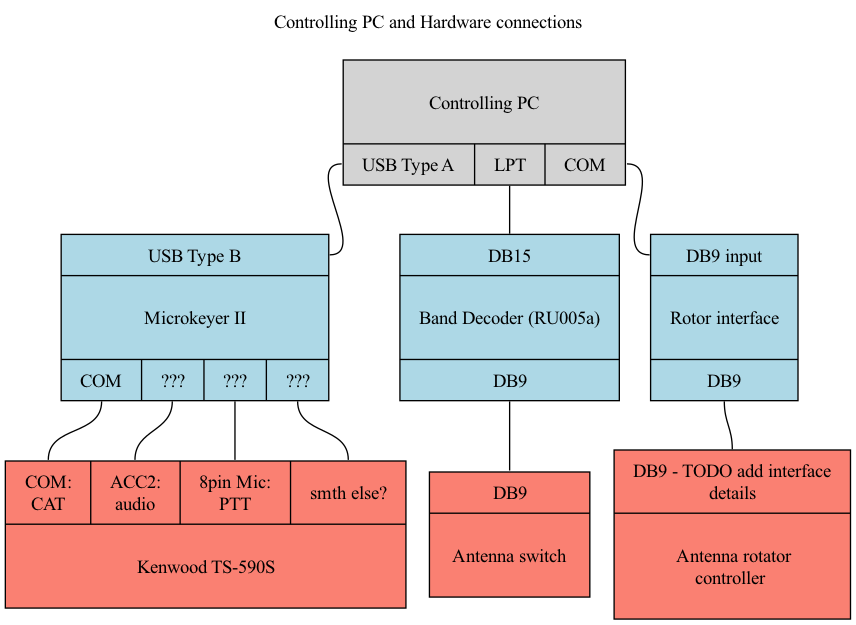
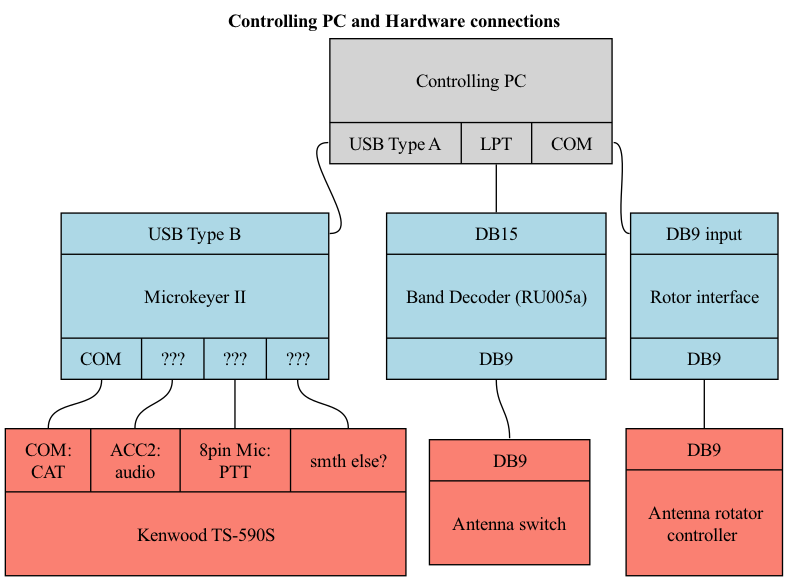
updated RK5D readme

Changed region(s): [[0.0, 0.0, 1.0, 1.0], [0.1523, 0.8969, 0.3655, 0.9278], [0.1523, 0.4948, 0.3046, 0.5258]]

diff --git a/rk5d-remote/README.md b/rk5d-remote/README.md
@@ -1,12 +1,69 @@
 # RK5D remote control configuration
 
-## 1. Software responsibilities
+## 0. Let me in
+1. Install [AnyDesk](https://anydesk.com)
+2. Ask me for setting up your access
+3. Please read this doc - just for the sake of an overview - and being aware of limitations and **your** responsibilities
+   
+## 1. Starting the station:
+1. Start the hardware: for now it's done by Dima manually (Controlling PC, 12V PS, G1000, Microham interface, RU005a band decoder)
+2. Connect to the controlling PC in AnyDesk
+3. Start the software (there are icons on the Desktop, adding paths just FYI):
+- **Microham USB Device Router** (*C:\Program Files (x86)\microHAM\bin\urouter.exe*)
+- **N1MM+ Logger** (*C:\Program Files (x86)\N1MM Logger+\N1MMLogger.net.exe*)
+- **N1MM Rotor** will be started with the logger automatically
+4. Start the transceiver by clicking the **ON** button in N1MM's bandmap window
+
+If everything is ok, you should
+- See the transceiver frequency in the bandmap window
+- See the current antenna position in the rotor window
+- Hear the band noise
+
+![bandmap](bandmap.png)
+
+![bandmap](rotor.png)
+
+Congrats You're ready! Please don't give up and read the next section carefully in order not to harm the station.
+
+## 2. Controlling the station
+So you're in and from now on you're controlling the station. Please do not forget that all the hardware depends on your actions.
+1. **USE TUNER**: Starting on a new band, please toggle the tuner - using the TUNE button. If the SWR is ok and you can work - you'll hear the "A" CW message. Otherwise you'll hear "SWR" - that means something is wrong.
+2. **ANTENNA SWITCHING**: Antennas are switched automatically when you change the band, however there are some important notes:
+    - Only 40m, 20m, 15m, 10m are now ready for use with full power (100w). 
+  Transmitting on 80m makes some RFIs in the shack - which cause the CAT control failure - right in the middle of the transmission, so the transceiver will end up in transmitting state and key down with full power. 
+  This can now be fixed only offline by turning off the transceiver and restarting the controlling PC, and if there's nobody around - it will cause transceiver extensive heating and PA damage. Transmitting QRP on 80m is ok.
+  The same happens if you transmit into an untunned 40m antenna.
+    - There is a problem with LPT port control - unsolved for now - there looks to be some port initialization delay or power saving in Windows.
+  See notes below if you face something similar: 
+      - Antennas are not switched with the band change (you can't hear the band noise)
+      - Antenna is switched - so that you hear the band noise for a few seconds - and then gets disconnected right away
+3. **ROTATOR**: Never let the antenna cross 0º direction (North). Otherwise the feeding cables might be broken, so please be very careful here.
+If you're say at 330º and want to rotate the antenna to 45º, first toggle rotation to 180º, then continue to 45º.
+The rotator always starts the rotation via the shortest (<180 degrees) path within its full 450 degrees range - but that's more than we want.
+4. **TRANSCEIVER CONTROL**: Control transceiver functions using the buttons configured in the N1MM bandmap window.
+    - Pay special attention to RIT and XIT indicators below the transceiver frequency. Once they're toggled - they're red.
+    - Unfortunately we don't have indicators for most of the functions controlled by these buttons, but we're planning to install a camera in front of the transceiver to see the display.
+    - For now - just listen the the transceiver beeps when you click the buttons - the beep frequency is high when a function is enabled and low when a function is disabled. Try it and you'll understand.
+    - All buttons within the grid is something we **can** customize so please don't be shy to provide your feedback - if you lack some button there or find something unneeded.
+5. **N1MM+ FAQ**:
+    - There is a [GREAT manual](https://n1mmwp.hamdocs.com/), split by sections, don't be shy to read it.
+    - Read about the **ESM (Enter Sends Message)** mode, it will clarify the most of questions on why and what the log sends when you click some buttons: [ESM Mode](https://n1mmwp.hamdocs.com/setup/keyboard-shortcuts/#enter-sends-message-mode-esm)
+    - **Ctrl+K** combination toggles CW free text send window, don't be afraid of using it. I bet you type much more faster than the CW speed you use. **Esc** closes it.
+    - **Esc** halts sending at any moment
+    
+**LPT port and antenna switching hack:**
+Just continue switching bands periodically - say each 5 seconds - for a while - 10 swithes should be enough - until it stops disconnecting the antenna after the band change.
+If that does not help, try restarting the band decoder (offline action is required for now).
+
+## 3. Software responsibilities
 ![software](gv/sw.png)
 
 ### Overview
 Remote user connects to the controlling PC via free AnyDesk software - which provides full remote desktop control and sound streaming. Sound quality may be question for improvement, however current setup (namely an optical connection at the controlling - i.e. shack - side, and a GPON + WiFi at the client side) normally provide an acceptable connection speed for usage in both CW and SSB, given recorded messages are played back at the controlled PC for SSB. There was no need for connecting a remote microphone for us, however that's a point for further investigation.
 
-Using the remote desktop approach instead of configuring each piece of software for network access provides more flexibility - as all software is used local mode, no limitations caused by usage over network are applied and all the network configuration changes - if any - have to be applied just to AnyDesk configuration rather than to all software as it would have been should we configure each application for remote usage individually. Moreover, any software not supporting network control may be used.
+Using the remote desktop approach instead of configuring each piece of software for network access provides more flexibility - as all the controlling software is used local mode, no limitations caused by usage over network are applied and all the network configuration changes - if any - have to be applied just to AnyDesk configuration rather than to all software as it would have been should we configure each application for remote usage individually. Moreover, any software not supporting network control may be used.
 
-## 2. Hardware connections
+## 4. Hardware connections
+More detailed connections diagram 
+
 ![hardware](gv/hw.png)

diff --git a/README.md b/README.md
@@ -1,1 +1,5 @@
 # hamradio
+
+[RK5D station remote configuration info](./rk5d-remote/README.md)
+
+Nothing else yet
